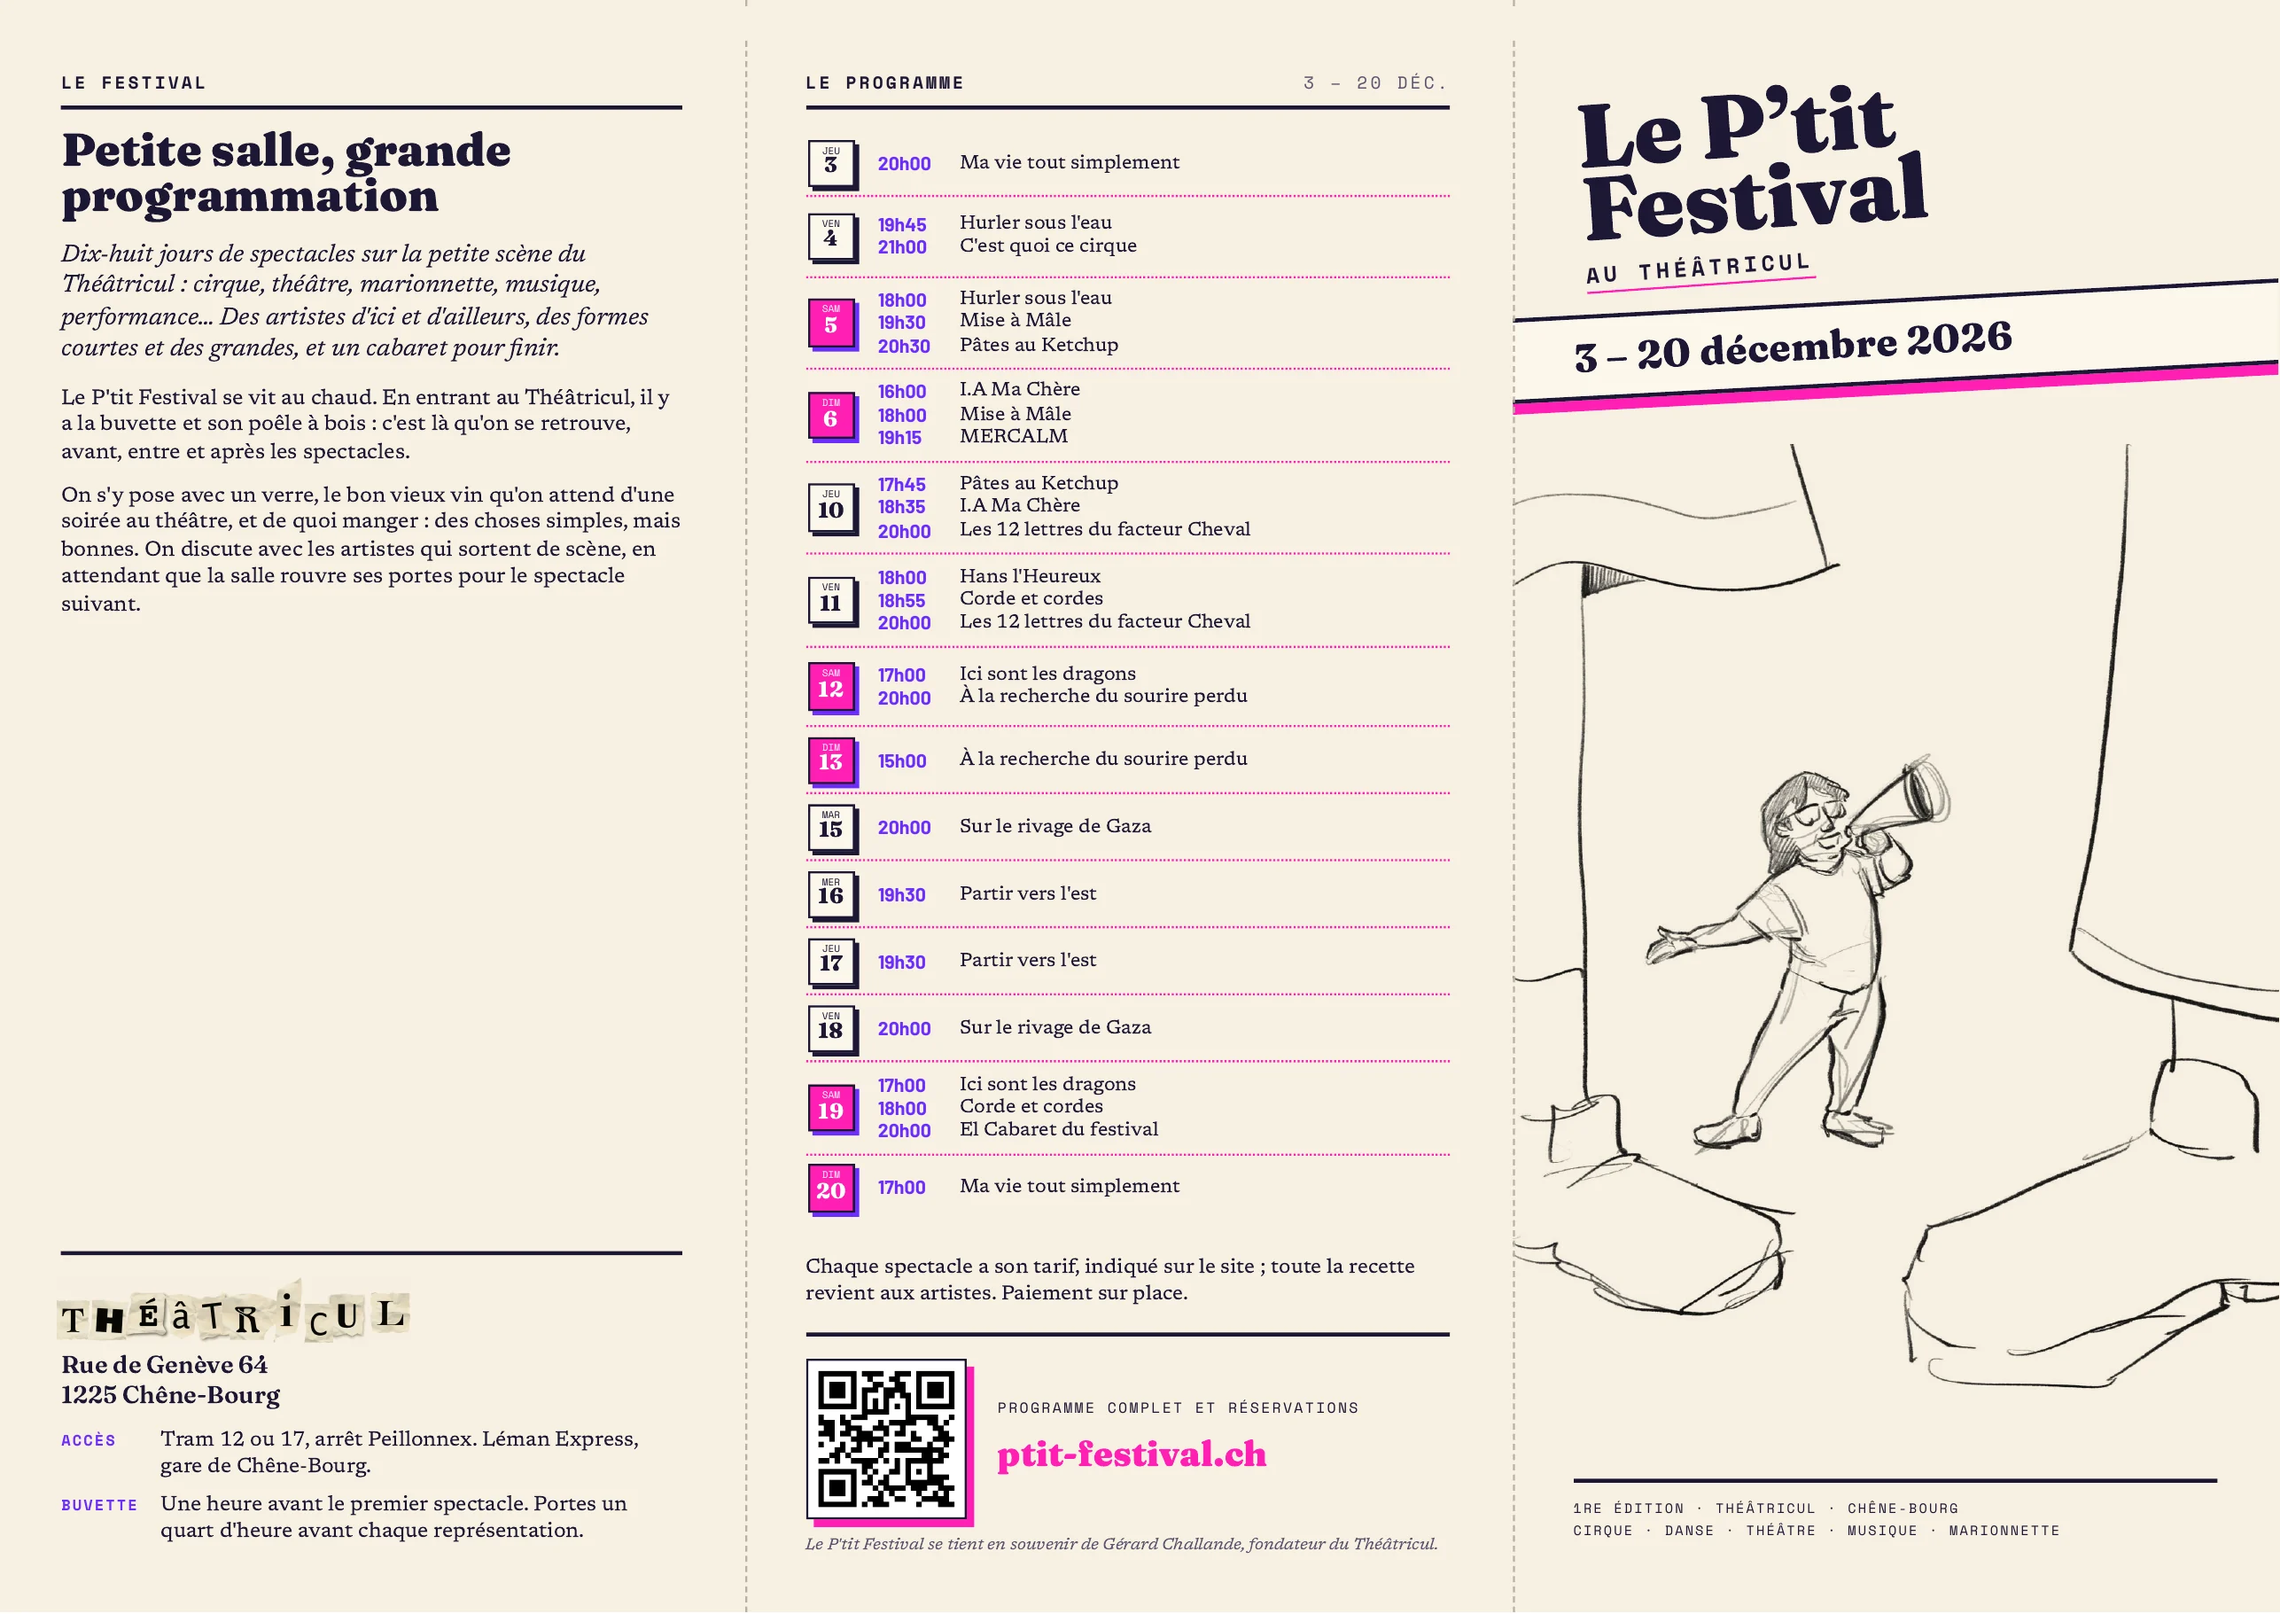
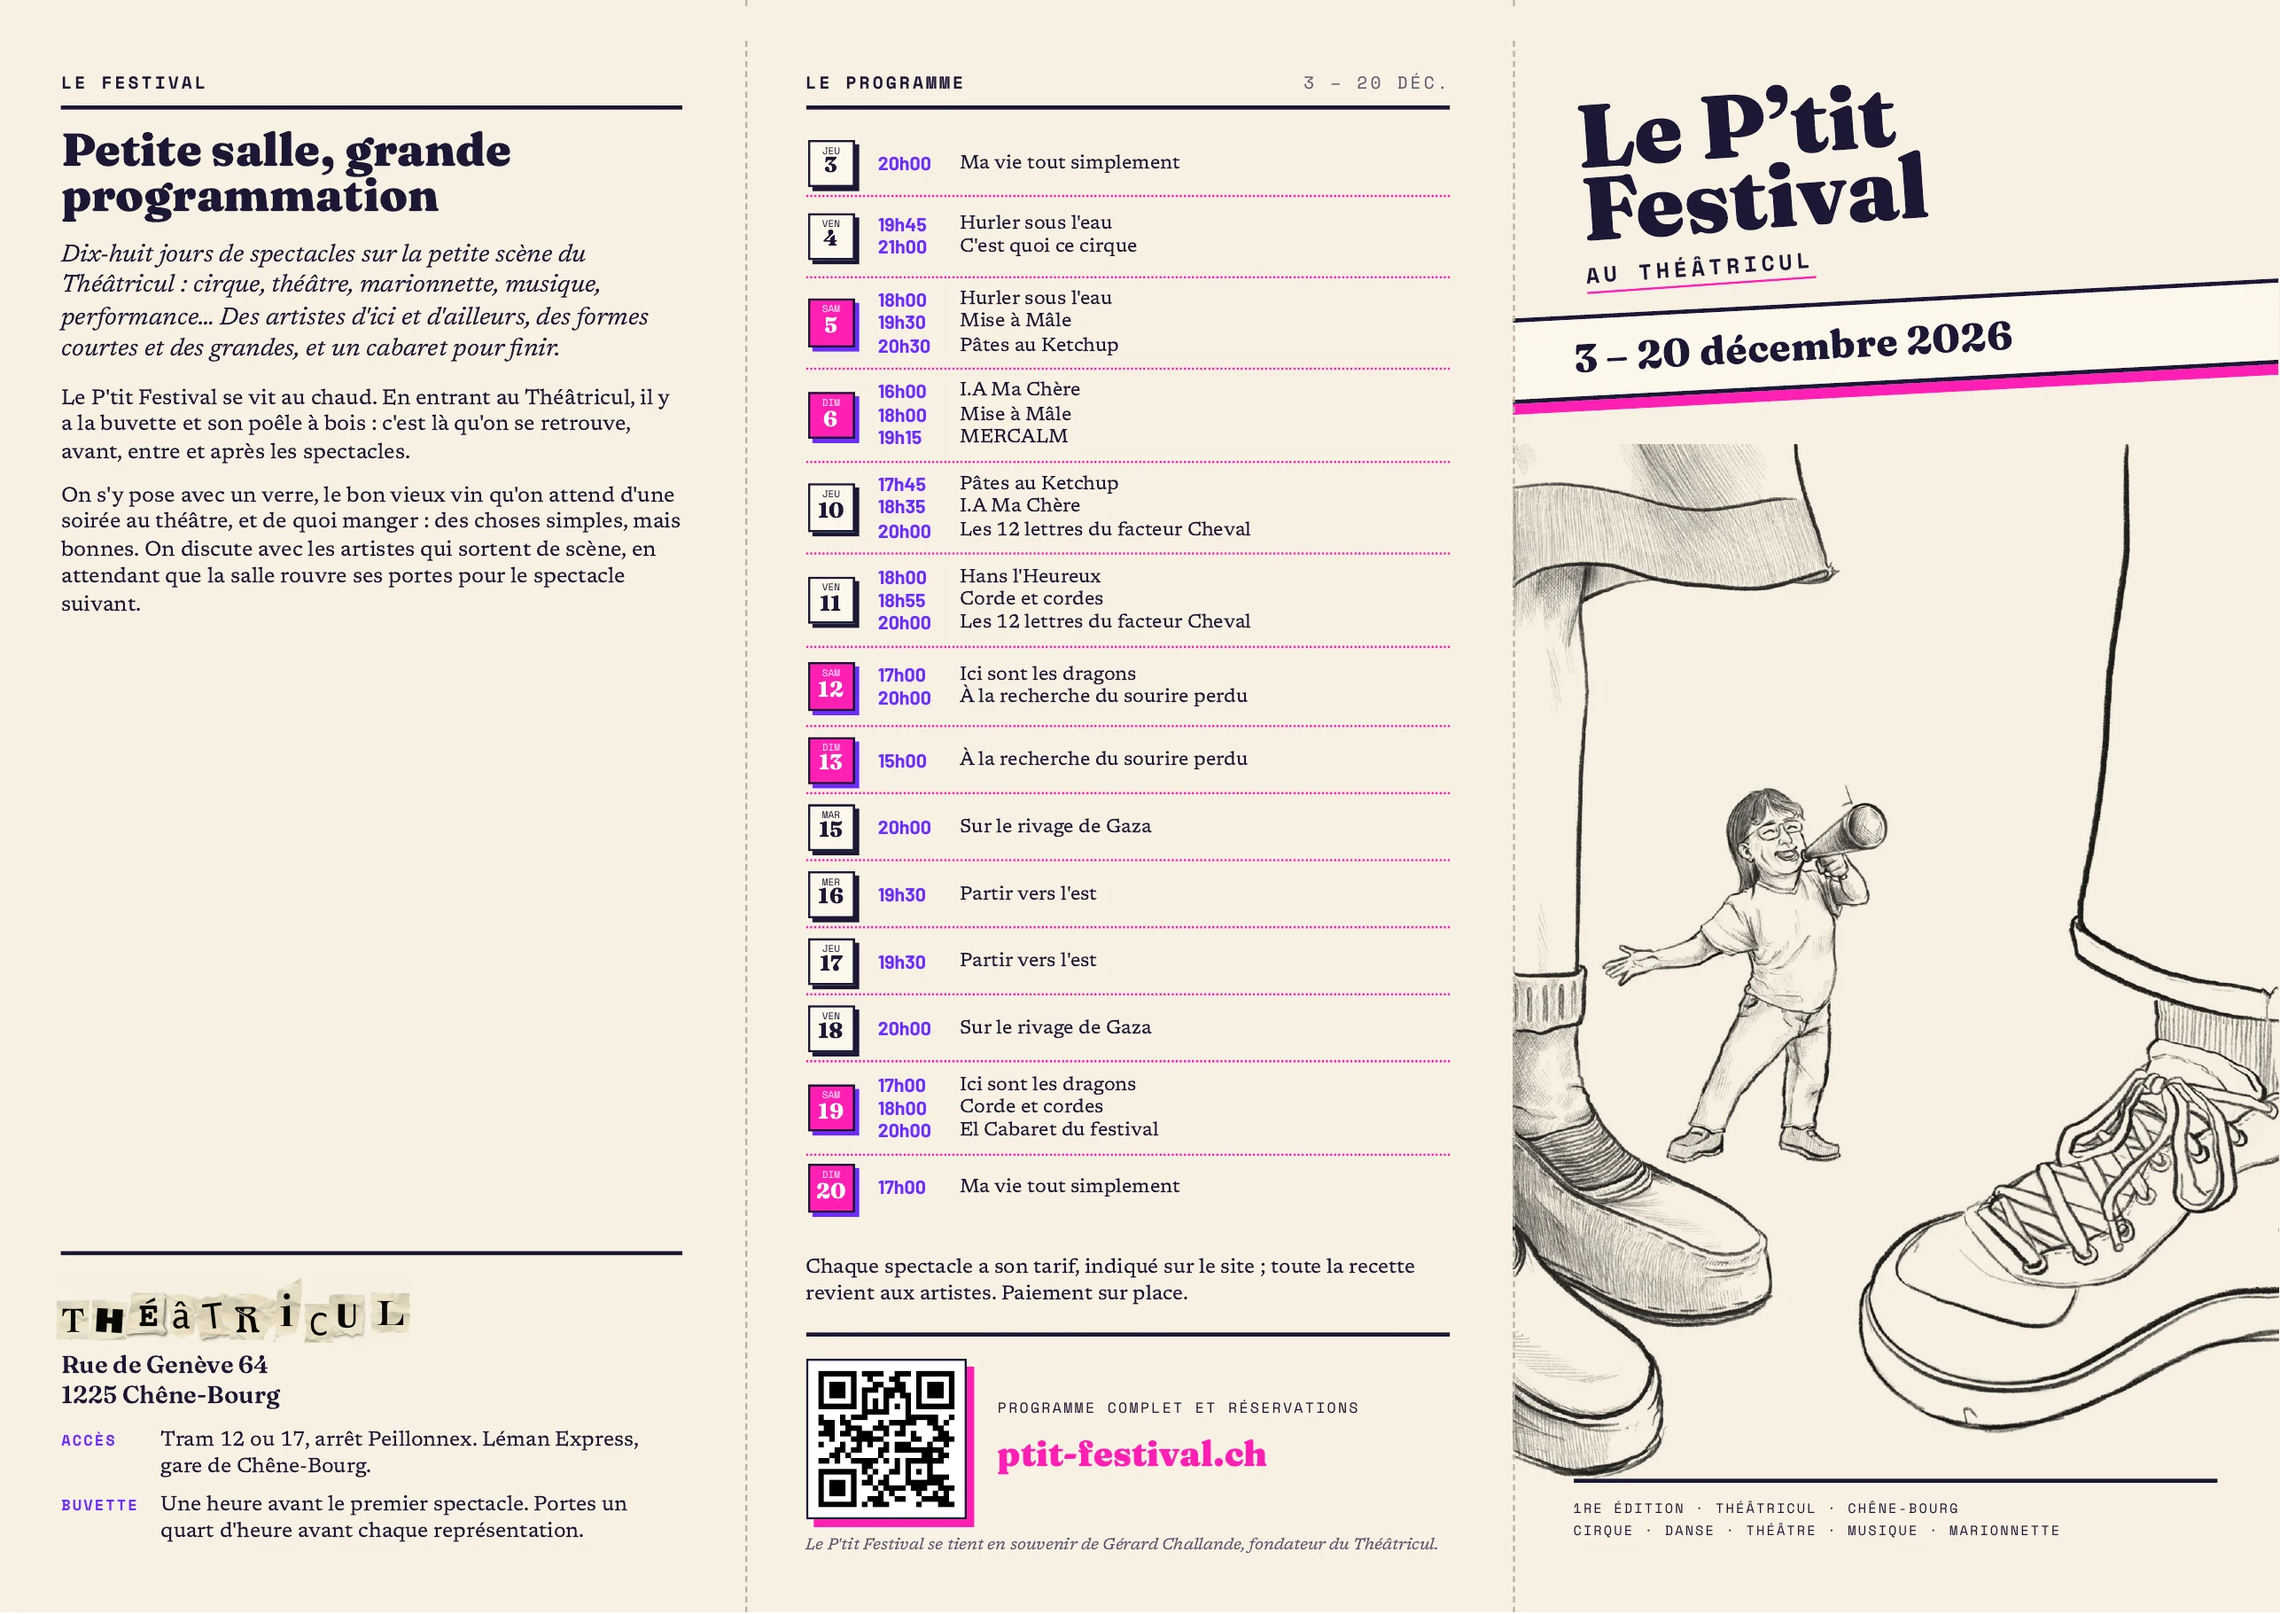
Page dépliant : nouvelle version du PDF (croquis v2 en couverture)
Claude-Session: https://claude.ai/code/session_01S2GuEiwwHEBNEWKLFkr5Cq

Changed region(s): [[0.6529, 0.4613, 1.0, 0.9226], [0.6529, 0.2768, 0.8084, 0.3998]]

diff --git a/apercu/depliant/index.html b/apercu/depliant/index.html
@@ -23,8 +23,8 @@ a{color:#6b2cff}
 </head>
 <body>
 <main>
-<a class="img" href="depliant-exterieur.webp?v=202611112002"><img src="depliant-exterieur.webp?v=202611112002" alt="Dépliant du P’tit Festival, extérieur : présentation, programme jour par jour, couverture" width="2573" height="1819"></a>
-<a class="img" href="depliant-interieur.webp?v=202611112002"><img src="depliant-interieur.webp?v=202611112002" alt="Dépliant du P’tit Festival, intérieur : les spectacles, avec photos, dates et tarifs" width="2573" height="1819"></a>
+<a class="img" href="depliant-exterieur.webp?v=202611112021"><img src="depliant-exterieur.webp?v=202611112021" alt="Dépliant du P’tit Festival, extérieur : présentation, programme jour par jour, couverture" width="2573" height="1819"></a>
+<a class="img" href="depliant-interieur.webp?v=202611112021"><img src="depliant-interieur.webp?v=202611112021" alt="Dépliant du P’tit Festival, intérieur : les spectacles, avec photos, dates et tarifs" width="2573" height="1819"></a>
 </main>
 </body>
 </html>
